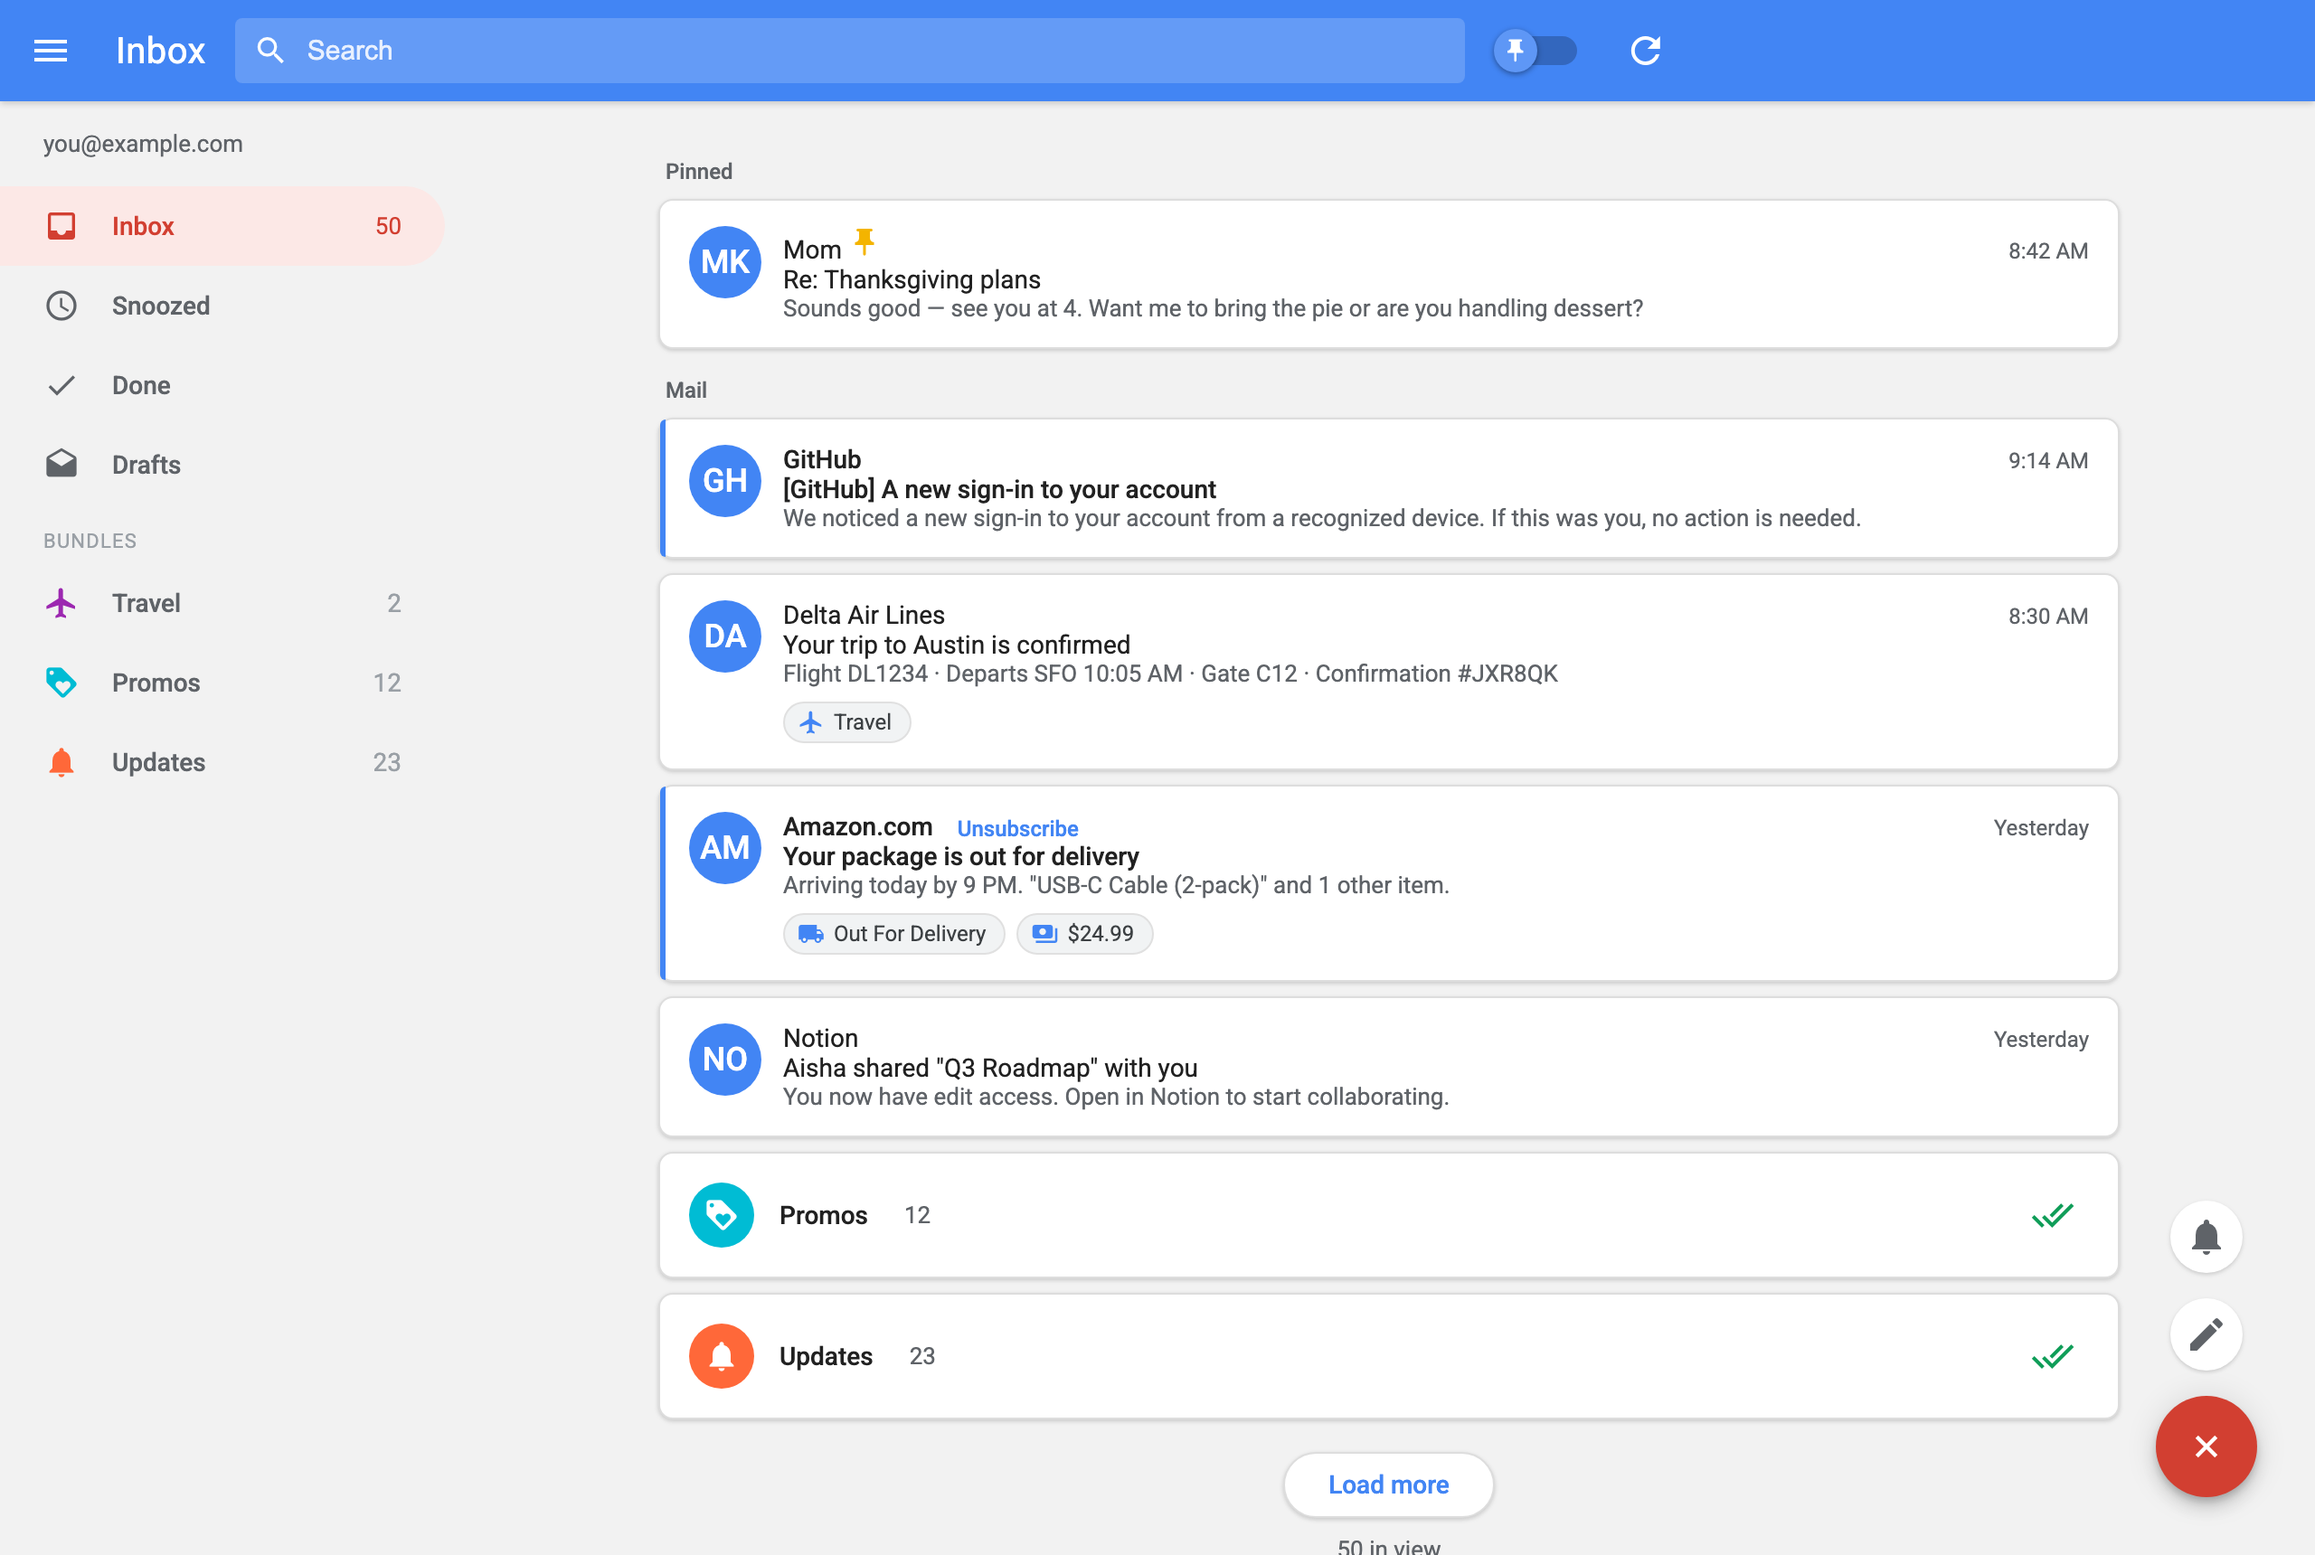
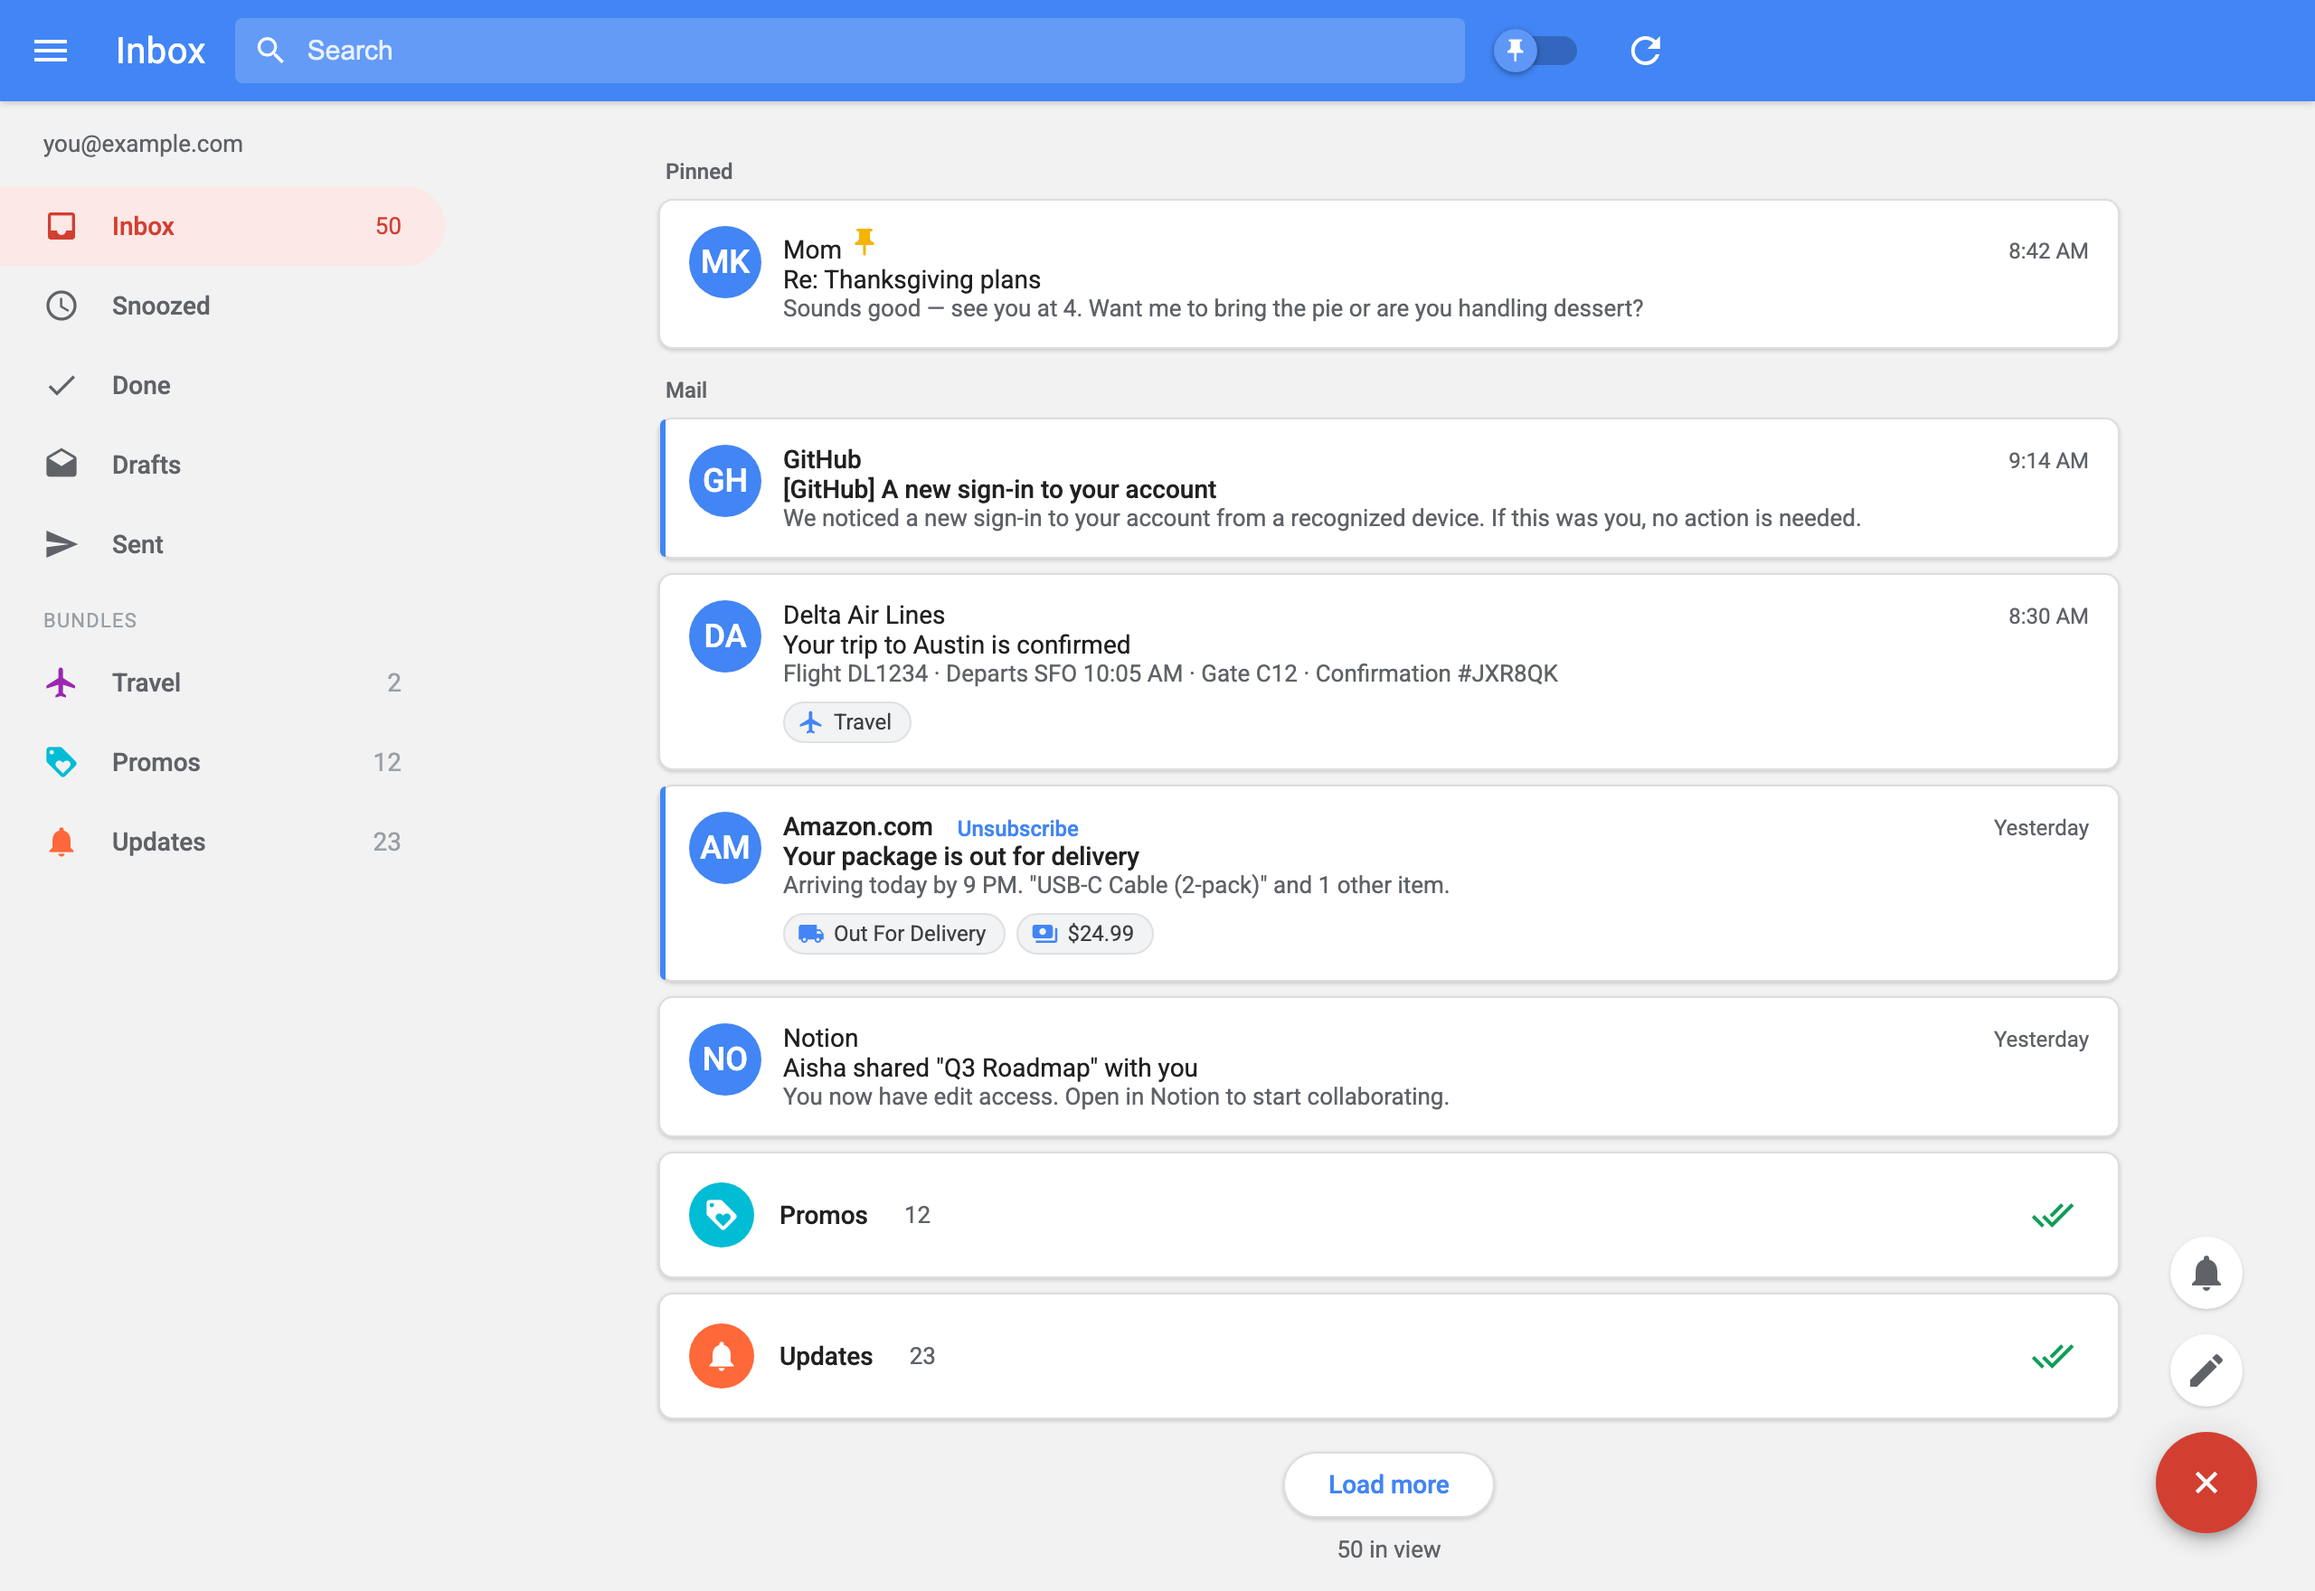
Add Sent folder
- /api/sent lists SENT-labelled threads, showing the recipient ('To: …')
  instead of the sender; supports pagination like the other views.
- thread_summary/summarize_ids gain an outgoing flag for recipient display.
- Nav: Sent tab; load()/loadMore() wired. Updated README screenshot.

diff --git a/templates/index.html b/templates/index.html
@@ -9,7 +9,7 @@
 <link rel="apple-touch-icon" href="/static/favicon.png">
 <link href="https://fonts.googleapis.com/css2?family=Roboto:wght@300;400;500&display=swap" rel="stylesheet">
 <link href="https://fonts.googleapis.com/icon?family=Material+Icons" rel="stylesheet">
-<link rel="stylesheet" href="/static/style.css?v=26">
+<link rel="stylesheet" href="/static/style.css?v=27">
 </head>
 <body>
 <header class="appbar">
@@ -47,6 +47,7 @@
     <a class="nav-item" data-view="snoozed"><i class="material-icons">schedule</i> Snoozed</a>
     <a class="nav-item" data-view="done"><i class="material-icons">done</i> Done</a>
     <a class="nav-item" data-view="drafts"><i class="material-icons">drafts</i> Drafts</a>
+    <a class="nav-item" data-view="sent"><i class="material-icons">send</i> Sent</a>
     <div class="nav-sep">Bundles</div>
     <div id="navBundles"></div>
   </nav>
@@ -143,6 +144,6 @@
 <div class="snackbar" id="snackbar" hidden><span id="snackText"></span><button id="snackUndo">UNDO</button></div>
 
 <script>window.OPEN_THREAD = "{{ open_thread }}";</script>
-<script src="/static/app.js?v=26"></script>
+<script src="/static/app.js?v=27"></script>
 </body>
 </html>

diff --git a/static/app.js b/static/app.js
@@ -670,6 +670,9 @@ async function load() {
   } else if (v === "drafts") {
     d = await api("/api/drafts?" + lim);
     STATE.token = d.nextPageToken || null;
+  } else if (v === "sent") {
+    d = await api("/api/sent?" + lim);
+    STATE.token = d.nextPageToken || null;
   } else if (v === "search") {
     d = await api("/api/search?q=" + encodeURIComponent(STATE.query || "") + "&" + lim);
     STATE.token = d.nextPageToken || null;
@@ -736,6 +739,7 @@ async function loadMore() {
     let url;
     if (v === "snoozed") url = "/api/snoozed?" + lim + tok;
     else if (v === "done") url = "/api/done_list?" + lim + tok;
+    else if (v === "sent") url = "/api/sent?" + lim + tok;
     else if (v === "search") url = "/api/search?q=" + encodeURIComponent(STATE.query || "") + "&" + lim + tok;
     else return;
     const p = await api(url);

diff --git a/docs/demo.html b/docs/demo.html
@@ -24,6 +24,7 @@
     <a class="nav-item"><i class="material-icons">schedule</i> Snoozed</a>
     <a class="nav-item"><i class="material-icons">done</i> Done</a>
     <a class="nav-item"><i class="material-icons">drafts</i> Drafts</a>
+    <a class="nav-item"><i class="material-icons">send</i> Sent</a>
     <div class="nav-sep">Bundles</div>
     <a class="nav-item"><i class="material-icons" style="color:#9C27B0">flight</i> Travel <span style="margin-left:auto;color:#9aa0a6;font-weight:400">2</span></a>
     <a class="nav-item"><i class="material-icons" style="color:#00BCD4">loyalty</i> Promos <span style="margin-left:auto;color:#9aa0a6;font-weight:400">12</span></a>

diff --git a/app.py b/app.py
@@ -347,19 +347,26 @@ def _decode_body(payload):
     return text, html
 
 
-def thread_summary(msg):
-    """Build a list-row summary from a metadata message resource."""
+def thread_summary(msg, outgoing=False):
+    """Build a list-row summary from a metadata message resource.
+    outgoing=True (Sent) shows the recipient ('To: …') instead of the sender."""
     headers = msg.get("payload", {}).get("headers", [])
-    sender_name, sender_email = _parse_addr(_header(headers, "From"))
     subject = _header(headers, "Subject") or "(no subject)"
     labels = msg.get("labelIds", [])
     snippet = msg.get("snippet", "")
-    bundle = _bundle_for(labels, subject, sender_name, snippet)
+    if outgoing:
+        name, addr = _parse_addr(_header(headers, "To"))
+        sender = "To: " + (name or "(no recipient)")
+        bundle = None
+    else:
+        name, addr = _parse_addr(_header(headers, "From"))
+        sender = name
+        bundle = _bundle_for(labels, subject, name, snippet)
     return {
         "id": msg.get("threadId"),
         "messageId": msg.get("id"),
-        "sender": sender_name,
-        "senderEmail": sender_email,
+        "sender": sender,
+        "senderEmail": addr,
         "subject": subject,
         "snippet": snippet,
         "time": _fmt_time(_header(headers, "Date")),
@@ -367,8 +374,8 @@ def thread_summary(msg):
         "unread": "UNREAD" in labels,
         "pinned": "STARRED" in labels,
         "bundle": bundle,
-        "highlights": compute_highlights(subject, snippet, bundle),
-        "unsub": parse_unsubscribe(headers),
+        "highlights": [] if outgoing else compute_highlights(subject, snippet, bundle),
+        "unsub": None if outgoing else parse_unsubscribe(headers),
         "permalink": gmail_permalink(msg.get("threadId")),
     }
 
@@ -430,11 +437,13 @@ def _get_meta(mid, headers):
         return None  # message vanished (deleted/moved) — drop it
 
 
-def summarize_ids(ids):
+def summarize_ids(ids, outgoing=False):
     if not ids:
         return []
-    load_bundle_labels()
-    headers = ["From", "Subject", "Date", "List-Unsubscribe", "List-Unsubscribe-Post"]
+    if not outgoing:
+        load_bundle_labels()
+    headers = (["To", "Subject", "Date"] if outgoing
+               else ["From", "Subject", "Date", "List-Unsubscribe", "List-Unsubscribe-Post"])
     # Concurrent metadata fetches (requests/urllib3 is thread-safe). gget retries
     # rate-limits internally; a small worker cap keeps us under the per-second quota.
     with ThreadPoolExecutor(max_workers=8) as ex:
@@ -449,7 +458,7 @@ def summarize_ids(ids):
         prev = by_thread.get(tid)
         if not prev or int(msg.get("internalDate", 0)) > int(prev.get("internalDate", 0)):
             by_thread[tid] = msg
-    summaries = [thread_summary(m) for m in by_thread.values()]
+    summaries = [thread_summary(m, outgoing=outgoing) for m in by_thread.values()]
     summaries.sort(key=lambda r: int(r["ts"]), reverse=True)
     return summaries
 
@@ -782,6 +791,20 @@ def api_done_list():
         ids, next_token = list_ids(q="-in:inbox -in:sent -in:draft -in:trash -in:spam -in:chats",
                                    max_results=limit, page_token=token, return_token=True)
         rows = summarize_ids(ids)
+        return jsonify({"items": rows, "email": _user_email, "limit": limit,
+                        "fetched": len(ids), "nextPageToken": next_token})
+    except Exception as e:
+        return jsonify({"error": str(e)}), 500
+
+
+@app.route("/api/sent")
+def api_sent():
+    limit = _limit_arg()
+    token = request.args.get("pageToken")
+    try:
+        ids, next_token = list_ids(label_ids=["SENT"], max_results=limit,
+                                   page_token=token, return_token=True)
+        rows = summarize_ids(ids, outgoing=True)
         return jsonify({"items": rows, "email": _user_email, "limit": limit,
                         "fetched": len(ids), "nextPageToken": next_token})
     except Exception as e:
